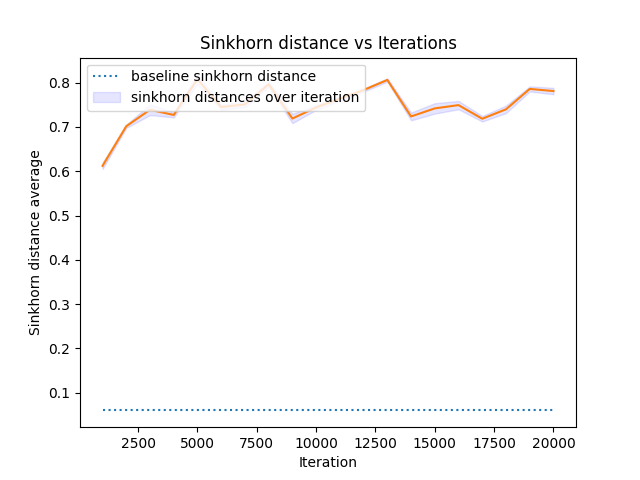
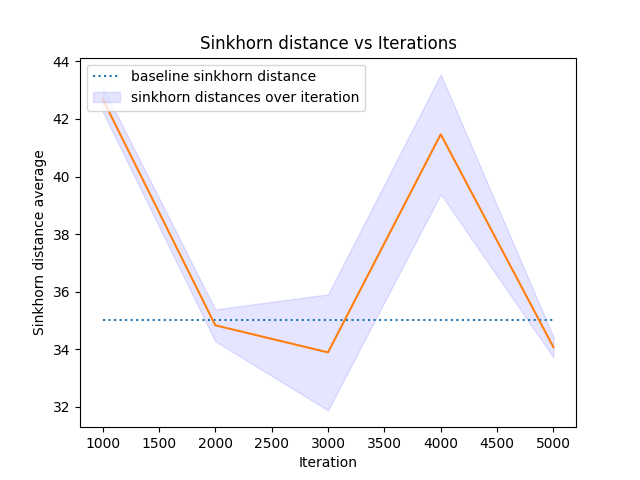
Test run for the code after sum changes for DDPM-UNET2d-MNIST8

diff --git a/denoising_diffusion_pytorch/ddpm_sandbox/ddpm_trainer.py b/denoising_diffusion_pytorch/ddpm_sandbox/ddpm_trainer.py
@@ -36,7 +36,7 @@ from tqdm import tqdm
 from datetime import datetime
 import torch
 import shutil
-from denoising_diffusion_pytorch.denoising_diffusion_pytorch import FuncApproxNN
+from denoising_diffusion_pytorch.denoising_diffusion_pytorch import HeadTail
 from stat_dist.layers import SinkhornDistance
 
 # logger
@@ -406,39 +406,47 @@ class DDPmTrainer:
 
 
 if __name__ == '__main__':
-    # Params and constants
-    # Raw parameters
-    model_name = "ddpm_nn"
+    # Params
 
+    # This code part is for mnist dataset name
+    mnist_num = "6"  # Can be None if we are going to use all mnist numbers
+    dataset_name = f"mnist{mnist_num}"
+    dataset_dir = f"../mnist_image_samples/{mnist_num}" # Needed only for actual, not synthetic datasets
+
+    # This code part is for sklearn dataset
+    # dataset_name = "circles"
+
+    diffusion_model_name = "ddpm_nn"
+    noise_model_name = "unet2d"  # noise_model_name must be consistent with dataset_name
     # dataset_name variables if dataset is mnist
-    mnist_num = "8"  # Can be None if we are going to use all mnist numbers
-    # dataset_name = f"mnist{mnist_num}"
 
-    # dataset_name for sklearn datasets
-    dataset_name = "circles"
-
-    # needed only for actual, not synthetic datasets
-    dataset_dir = f"../mnist_image_samples/{mnist_num}"
     checkpoints_dir = f"../models/checkpoints"
-    time_steps = 1000
     device = torch.device('cuda')
+
+    # constants
+    time_steps = 1000
     image_size = 32
     num_images = 1
     num_channels = 1
-    batch_size = 1024
+    batch_size = 64
     num_train_step = 5000
     debug_flag = False
     pbar_update_freq = 100
     checkpoint_freq = 1000
     unet_dim = 64
+
     # Some assertion for params
     assert num_train_step % checkpoint_freq == 0
-    checkpoints_path = os.path.join(checkpoints_dir, f"{model_name}_{dataset_name}")
+    checkpoints_path = os.path.join(checkpoints_dir, f"{diffusion_model_name}_{dataset_name}")
     assert dataset_name in GaussianDiffusion.MNIST_DATASET_NAMES + GaussianDiffusion.SKLEARN_DATASET_NAMES
-    # Check the consistency between batch_size and dataset_name
-    # For sklearn dataset, assert batch_size == 1. Why ? because each call to the sklearn dataset, like make_circles,
-    # already returns a batch. Such a call is inside the __get_item function dataset, and using a dataloader
-    # attached to the dataset, makes another level of batching using the next(iter(data_loader)) call.
+    # models assertions
+    assert diffusion_model_name in ["ddpm_nn"]
+    if dataset_name in GaussianDiffusion.MNIST_DATASET_NAMES:
+        assert noise_model_name in ["unet2d"]
+    elif dataset_name in GaussianDiffusion.SKLEARN_DATASET_NAMES:
+        assert noise_model_name in ["head_tail", "fcnn"]
+    else:
+        raise ValueError(f"Unknown dataset_name : {dataset_name}")
 
     # Delete an old checkpoint path, with contents, then create a new fresh one
     logger.info(f"Removing checkpoint dir : {checkpoints_path} if exists")
@@ -452,15 +460,15 @@ if __name__ == '__main__':
     logger.info(f'Cuda device count = {torch.cuda.device_count()}')
 
     diffusion_model = None
-    ddpm_step_model = None
+    noise_model = None
     trainer = None
     if dataset_name in GaussianDiffusion.MNIST_DATASET_NAMES:
-        ddpm_step_model = Unet2D(dim=unet_dim,
-                                 channels=num_channels,
-                                 dim_mults=(1, 2, 4, 8),
-                                 flash_attn=True)
+        noise_model = Unet2D(dim=unet_dim,
+                             channels=num_channels,
+                             dim_mults=(1, 2, 4, 8),
+                             flash_attn=True)
         diffusion_model = GaussianDiffusion(
-            model=ddpm_step_model,
+            noise_model=noise_model,
             dataset_name=dataset_name,
             image_size=image_size,
             timesteps=time_steps,  # number of steps
@@ -478,8 +486,11 @@ if __name__ == '__main__':
             trainer.set_sinkhorn_baseline(dataset_name=dataset_name, batch_size=batch_size, device=device))
 
     elif dataset_name in GaussianDiffusion.SKLEARN_DATASET_NAMES:
-        ddpm_step_model = FuncApproxNN(hidden_dim=128, input_dim=2, time_steps=time_steps).to(device)
-        diffusion_model = GaussianDiffusion(model=ddpm_step_model, dataset_name=dataset_name,
+        if noise_model_name == "head_tail":
+            noise_model = HeadTail(hidden_dim=128, input_dim=2, time_steps=time_steps).to(device)
+        elif noise_model_name == "fcnn":
+            raise NotImplementedError(f"noise model name : {noise_model_name} is not implemented ")
+        diffusion_model = GaussianDiffusion(noise_model=noise_model, dataset_name=dataset_name,
                                             timesteps=time_steps).to(device)
         opt = Adam(params=diffusion_model.parameters(), lr=1e-4)
         trainer = DDPmTrainer(diffusion_model=diffusion_model, batch_size=batch_size, train_num_steps=num_train_step,
@@ -495,7 +506,7 @@ if __name__ == '__main__':
     # DDPM step model: can any regression model
     # Double-check if models are actually on cuda
     #   https://discuss.pytorch.org/t/how-to-check-if-model-is-on-cuda/180/2
-    is_unet_model_on_cuda = next(ddpm_step_model.parameters()).is_cuda
+    is_unet_model_on_cuda = next(noise_model.parameters()).is_cuda
     logger.info(f'If core model is on cuda ? : {is_unet_model_on_cuda}')
     is_diffusion_model_on_cuda = next(diffusion_model.parameters()).is_cuda
     logger.info(f'Is diffusion model on cuda? : {is_diffusion_model_on_cuda}')

diff --git a/denoising_diffusion_pytorch/denoising_diffusion_pytorch.py b/denoising_diffusion_pytorch/denoising_diffusion_pytorch.py
@@ -298,7 +298,7 @@ class Attention(nn.Module):
 
 
 # model
-class FuncApproxNN(nn.Module):
+class HeadTail(nn.Module):
     """
     A Generic UNet class that is not attached to image datasets
     """
@@ -339,37 +339,6 @@ class FuncApproxNN(nn.Module):
         x_out_tensor = torch.stack(x_out_list, dim=0)
         return x_out_tensor
 
-        # h = []
-        #
-        # for block1, block2, attn, downsample in self.downs:
-        #     x = block1(x, t)
-        #     h.append(x)
-        #
-        #     x = block2(x, t)
-        #     x = attn(x) + x
-        #     h.append(x)
-        #
-        #     x = downsample(x)
-        #
-        # x = self.mid_block1(x, t)
-        # x = self.mid_attn(x) + x
-        # x = self.mid_block2(x, t)
-        #
-        # for block1, block2, attn, upsample in self.ups:
-        #     x = torch.cat((x, h.pop()), dim=1)
-        #     x = block1(x, t)
-        #
-        #     x = torch.cat((x, h.pop()), dim=1)
-        #     x = block2(x, t)
-        #     x = attn(x) + x
-        #
-        #     x = upsample(x)
-        #
-        # x = torch.cat((x, r), dim=1)
-        #
-        # x = self.final_res_block(x, t)
-        # out_ = self.final_conv(x)  # For debugging
-        # return out_
 
 
 class Unet2D(nn.Module):
@@ -382,6 +351,10 @@ class Unet2D(nn.Module):
     - denoising-diffusion-pytorch/denoising_diffusion_pytorch/denoising_diffusion_pytorch.py:419
     The corresponding 1D class is here
     denoising_diffusion_pytorch.denoising_diffusion_pytorch_1d.Unet1D
+
+    Articles and Resources about UNet Architecture
+    https://medium.com/@kemalpiro/step-by-step-visual-introduction-to-diffusion-models-235942d2f15c
+    https://theaisummer.com/diffusion-models/
     """
 
     def __init__(
@@ -601,7 +574,7 @@ class GaussianDiffusion(nn.Module):
     # Flat datasets are like sklearn datasets and the batches are of shape B X D
     def __init__(
             self,
-            model: torch.nn.Module,
+            noise_model: torch.nn.Module,
             dataset_name: str,
             timesteps=1000,
             sampling_timesteps=None,
@@ -618,18 +591,18 @@ class GaussianDiffusion(nn.Module):
 
     ):
         super().__init__()
-        if hasattr(model, "channels") and isinstance(model, Unet2D):
-            assert not (type(self) == GaussianDiffusion and model.channels != model.out_dim)
+        if hasattr(noise_model, "channels") and isinstance(noise_model, Unet2D):
+            assert not (type(self) == GaussianDiffusion and noise_model.channels != noise_model.out_dim)
         else:
             logger.info(
-                f"func. approx. model of class {type(model)} has no channels attribute, no assertions to be done")
-        if hasattr(model, "random_or_learned_sinusoidal_cond"):
-            assert not model.random_or_learned_sinusoidal_cond
+                f"func. approx. model of class {type(noise_model)} has no channels attribute, no assertions to be done")
+        if hasattr(noise_model, "random_or_learned_sinusoidal_cond"):
+            assert not noise_model.random_or_learned_sinusoidal_cond
         else:
-            logger.info(f"func. approx. model of class {type(model)} has no "
+            logger.info(f"func. approx. model of class {type(noise_model)} has no "
                         f"random_or_learned_sinusoidal_cond attribute, no assertions to be done")
 
-        self.model = model
+        self.model = noise_model
         self.dataset_name = dataset_name
         self.channels = getattr(self.model, "channels", None)
         self.self_condition = getattr(self.model, "self_condition", None)

diff --git a/denoising_diffusion_pytorch/ddpm_sandbox/test/test_diffusion_model.py b/denoising_diffusion_pytorch/ddpm_sandbox/test/test_diffusion_model.py
@@ -16,7 +16,7 @@ from PIL import Image
 from os import listdir
 from os.path import isfile, join
 
-from denoising_diffusion_pytorch.denoising_diffusion_pytorch import FuncApproxNN
+from denoising_diffusion_pytorch.denoising_diffusion_pytorch import HeadTail
 
 # logger
 logging.basicConfig(level=logging.INFO)
@@ -27,7 +27,7 @@ def tensor_to_images(sample_tensor: torch.Tensor, dataset_name: str):
     if dataset_name in GaussianDiffusion.MNIST_DATASET_NAMES:
         # Assume images of the shape is B X C X H X W where N is the number of images
         assert len(sample_tensor.shape) == 4, "Images tensor must have dims B X C X H X W"
-        # assert that C = 1, i.e. one channel and the image is BW
+        # assert that C = 1, i.e., one channel and the image is BW
         assert sample_tensor.shape[1] == 1, "Supporting BW images only with one channel, i.e. dim C = 1"
         sample_tensor = torch.clamp(input=sample_tensor, min=0, max=1) * 255.0
         sample_tensor = sample_tensor.squeeze()
@@ -60,12 +60,12 @@ if __name__ == '__main__':
     batch_size = 64
     # num_train_step = 20_000
     model_name = "ddpm_nn"
-    dataset_name = "circles"
+    dataset_name = "mnist6"
     model_checkpoint_ext = ".pt"
     checkpoint_metadata_ext = ".json"
 
     model_checkpoints_path = f"../models/checkpoints/{model_name}_{dataset_name}"
-    final_model_checkpoint_name = "checkpoint_model_20000.pt"
+    final_model_checkpoint_name = "checkpoint_model_5000.pt"
     final_model_path = os.path.join(model_checkpoints_path, final_model_checkpoint_name)
     # Test if cuda is available
     logger.info(f"Cuda checks")
@@ -84,15 +84,15 @@ if __name__ == '__main__':
         ).to(device)
         diffusion_model = GaussianDiffusion(
             dataset_name="mnist8",
-            model=step_model,
+            noise_model=step_model,
             image_size=image_size,
             timesteps=time_steps,  # number of steps
             auto_normalize=False
         ).to(device)
         sample_batch_size = 4
     elif dataset_name in GaussianDiffusion.SKLEARN_DATASET_NAMES:
-        step_model = FuncApproxNN(hidden_dim=128, input_dim=2, time_steps=time_steps).to(device)
-        diffusion_model = GaussianDiffusion(model=step_model, dataset_name=dataset_name,
+        step_model = HeadTail(hidden_dim=128, input_dim=2, time_steps=time_steps).to(device)
+        diffusion_model = GaussianDiffusion(noise_model=step_model, dataset_name=dataset_name,
                                             timesteps=time_steps).to(device)
         sample_batch_size = 1024
     else:
@@ -121,6 +121,8 @@ if __name__ == '__main__':
         baseline_sinkhorn_value = 40
     elif dataset_name == "circles":
         baseline_sinkhorn_value = 0.06
+    elif dataset_name == "mnist6":
+        baseline_sinkhorn_value = 35 # just adhoc val. need to set it correctly
     else:
         raise ValueError(f"Still have no baseline sinkhorn distance for dataset_name = {dataset_name}")
     for iter_num in checkpoint_niters:

diff --git a/denoising_diffusion_pytorch/weighted_objective_gaussian_diffusion.py b/denoising_diffusion_pytorch/weighted_objective_gaussian_diffusion.py
@@ -22,16 +22,16 @@ def default(val, d):
 class WeightedObjectiveGaussianDiffusion(GaussianDiffusion):
     def __init__(
         self,
-        model,
+        noise_model,
         *args,
         pred_noise_loss_weight = 0.1,
         pred_x_start_loss_weight = 0.1,
         **kwargs
     ):
-        super().__init__(model, *args, **kwargs)
-        channels = model.channels
-        assert model.out_dim == (channels * 2 + 2), 'dimension out (out_dim) of unet must be twice the number of channels + 2 (for the softmax weighted sum) - for channels of 3, this should be (3 * 2) + 2 = 8'
-        assert not model.self_condition, 'not supported yet'
+        super().__init__(noise_model, *args, **kwargs)
+        channels = noise_model.channels
+        assert noise_model.out_dim == (channels * 2 + 2), 'dimension out (out_dim) of unet must be twice the number of channels + 2 (for the softmax weighted sum) - for channels of 3, this should be (3 * 2) + 2 = 8'
+        assert not noise_model.self_condition, 'not supported yet'
         assert not self.is_ddim_sampling, 'ddim sampling cannot be used'
 
         self.split_dims = (channels, channels, 2)

diff --git a/denoising_diffusion_pytorch/learned_gaussian_diffusion.py b/denoising_diffusion_pytorch/learned_gaussian_diffusion.py
@@ -70,14 +70,14 @@ def discretized_gaussian_log_likelihood(x, *, means, log_scales, thres = 0.999):
 class LearnedGaussianDiffusion(GaussianDiffusion):
     def __init__(
         self,
-        model,
+        noise_model,
         vb_loss_weight = 0.001,  # lambda was 0.001 in the paper
         *args,
         **kwargs
     ):
-        super().__init__(model, *args, **kwargs)
-        assert model.out_dim == (model.channels * 2), 'dimension out of unet must be twice the number of channels for learned variance - you can also set the `learned_variance` keyword argument on the Unet to be `True`'
-        assert not model.self_condition, 'not supported yet'
+        super().__init__(noise_model, *args, **kwargs)
+        assert noise_model.out_dim == (noise_model.channels * 2), 'dimension out of unet must be twice the number of channels for learned variance - you can also set the `learned_variance` keyword argument on the Unet to be `True`'
+        assert not noise_model.self_condition, 'not supported yet'
 
         self.vb_loss_weight = vb_loss_weight
 

diff --git a/denoising_diffusion_pytorch/debug/gaussian_diffusion_debugging.py b/denoising_diffusion_pytorch/debug/gaussian_diffusion_debugging.py
@@ -26,7 +26,7 @@ if __name__ == '__main__':
     ).to(device)
 
     diffusion = GaussianDiffusion(
-        model=model,
+        noise_model=model,
         image_size=image_size,
         timesteps=time_steps,  # number of steps
         auto_normalize=False
